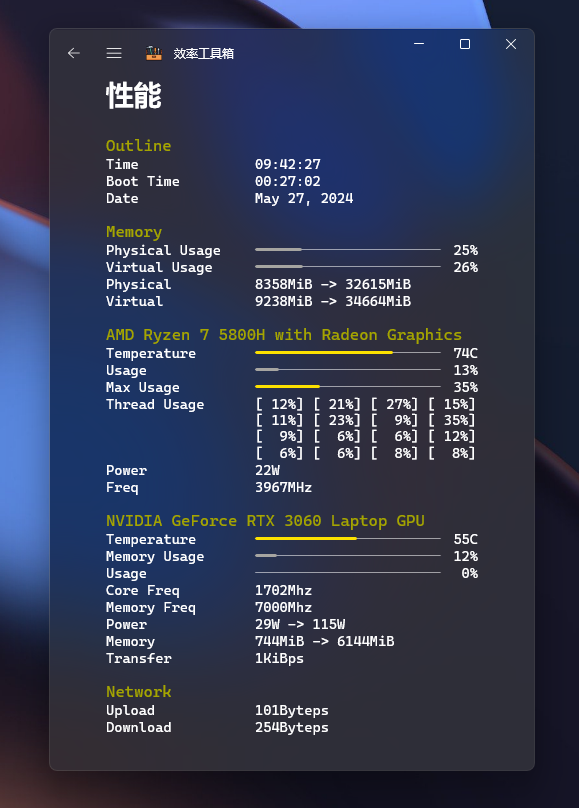
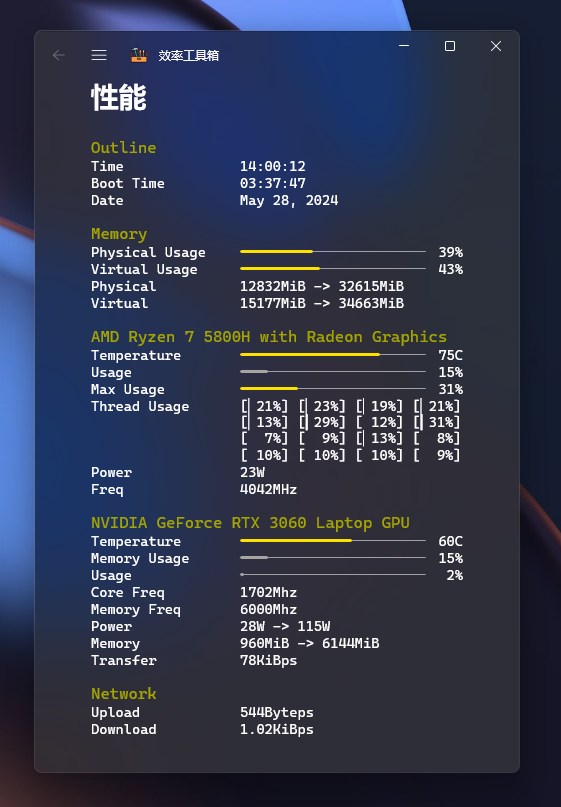
modified:   performance-monitor-winui3/Tools/Utils.cs 	modified:   performance-monitor-winui3/Views/MonitorPage.xaml.cs 	modified:   picture/monitor_page_0.png 	modified:   picture/monitor_page_1.png 	modified:   readme.md

diff --git a/performance-monitor-winui3/Tools/Utils.cs b/performance-monitor-winui3/Tools/Utils.cs
@@ -238,93 +238,12 @@ static class Utils
         }
     }
 
-    //public static Grid AddCPUThreadUsageGrid2Grid(Grid grid, string keyStr, CpuInformation cpu, int row, int ringRowNumber = 4, int keySize = 4, int valueSize = 6, int fontSize = 14, double height = 1.2)
-    //{
-
-    //    Grid subGrid = new Grid();
-    //    // column
-    //    var keyColumnDefinition = new ColumnDefinition();
-    //    keyColumnDefinition.Width = new GridLength(keySize, GridUnitType.Star);
-    //    var valueColumnDefinition = new ColumnDefinition();
-    //    valueColumnDefinition.Width = new GridLength(valueSize, GridUnitType.Star);
-    //    subGrid.ColumnDefinitions.Add(keyColumnDefinition);
-    //    subGrid.ColumnDefinitions.Add(valueColumnDefinition);
-    //    // row
-    //    var pairRowDefinition = new RowDefinition();
-    //    pairRowDefinition.Height = new GridLength(height, GridUnitType.Auto);
-    //    subGrid.RowDefinitions.Add(pairRowDefinition);
-
-    //    // define key TextBlock
-    //    var key = new TextBlock();
-    //    key.Text = keyStr;
-    //    key.VerticalAlignment = VerticalAlignment.Top;
-    //    key.FontSize = fontSize;
-    //    key.FontFamily = new FontFamily("Cascadia Mono");
-    //    Grid.SetColumn(key, 0);
-    //    Grid.SetRow(key, 0);
-
-    //    // define rings
-    //    var needRow = (cpu.ThreadCount + ringRowNumber - 1) / ringRowNumber;
-    //    Grid ringGrid = new Grid();
-    //    // row
-    //    for (var i = 0; i < needRow; i++)
-    //    {
-    //        var rowDefinition = new RowDefinition();
-    //        rowDefinition.Height = new GridLength(height, GridUnitType.Auto);
-    //        ringGrid.RowDefinitions.Add(rowDefinition);
-    //    }
-    //    // column
-    //    for (var i = 0; i < ringRowNumber; i++)
-    //    {
-    //        var columnDefinition = new ColumnDefinition();
-    //        columnDefinition.Width = new GridLength(1, GridUnitType.Star);
-    //        ringGrid.ColumnDefinitions.Add(columnDefinition);
-    //    }
-
-    //    for (var i = 0; i < cpu.ThreadCount; i++) 
-    //    {
-    //        int addRow = i / ringRowNumber, addColumn = i % ringRowNumber;
-    //        //ProgressBar progressBar = new ProgressBar();
-
-    //        //var val = cpu.Usage[i];
-    //        //val = val < 0 ? 0 : val;
-    //        //val = val > 100 ? 100 : val;
-
-    //        ////progressBar.Value = val;
-    //        ////if (val < 30) { }
-    //        ////else if (val <= 80)
-    //        ////{
-    //        ////    progressBar.ShowPaused = true;
-    //        ////}
-    //        ////else
-    //        ////{
-    //        ////    progressBar.ShowError = true;
-    //        ////}
-    //        ////progressBar.Margin = new Thickness(0, 5, 0, 5);
-
-    //        //Grid.SetRow(progressBar, addRow);
-    //        //Grid.SetColumn(progressBar, addColumn);
-    //        //ringGrid.Children.Add(progressBar);
-    //    }
-
-
-    //    Grid.SetColumn(ringGrid, 1);
-    //    Grid.SetRow(ringGrid, 0);
-
-    //    // push into subGrid
-    //    subGrid.Children.Add(key);
-    //    subGrid.Children.Add(ringGrid);
-
-    //    // grid row
-    //    var subGridRowDefinition = new RowDefinition();
-    //    subGridRowDefinition.Height = new GridLength(height, GridUnitType.Auto);
-    //    grid.RowDefinitions.Add(subGridRowDefinition);
-
-    //    // push into grid
-    //    Grid.SetRow(subGrid, row);
-    //    Grid.SetColumn(subGrid, 0);
-    //    grid.Children.Add(subGrid);
-
-    //    return subGrid;
-    //}
+    public static readonly char[] ProgressChars = [' ', '▏', '▎', '▎', '▌', '▋', '▊', '▉', '█'];
+    public static string GetProgressString(int value)
+    {
+        value = Math.Max(Math.Min(value, 100), 0);
+        var idx = value * (ProgressChars.Length - 1) / 100;
+        value = Math.Min(99, value);
+        return $"[{ProgressChars[idx]}{value,2}%]";
+    }
 }

diff --git a/performance-monitor-winui3/Views/MonitorPage.xaml.cs b/performance-monitor-winui3/Views/MonitorPage.xaml.cs
@@ -77,7 +77,7 @@ public sealed partial class MonitorPage : Page
                     var eachUsage = "";
                     for (int i = 0; i < cpu.ThreadCount; i++)
                     {
-                        eachUsage += $"[{cpu.Usage[i],3}%]";
+                        eachUsage += Utils.GetProgressString(cpu.Usage[i]);
                         if (i + 1 != cpu.ThreadCount && i % 4 == 3)
                         {
                             eachUsage += '\n';

diff --git a/readme.md b/readme.md
@@ -1,6 +1,6 @@
 # 效率工具箱文档
 
-效率工具箱是由`LoHhhha`开发的一款基于`Windows SDK 1.5`开发的软件。旨在实现一些极客功能如：计算机性能监测、网络IP地址查看、TODO列表、日程表等功能，同时集成`Dell G15`系列`AWCC-WMI`相关接口，实现风扇转速调整、性能模式切换的功能。
+效率工具箱是由`LoHhhha`开发的一款基于`Windows SDK 1.5`(`WinUI3`)开发的软件。旨在实现一些极客功能如：计算机性能监测、网络IP地址查看、TODO列表、日程表等功能，同时集成`Dell G15`系列`AWCC-WMI`相关接口，实现风扇转速调整、性能模式切换的功能。
 
 注：文档给出的前端设置均为简化版，未指定任何参数，仅做参考，具体请参见对应源代码。
 
@@ -672,7 +672,7 @@
 * 重要方法
   * `string Get(string key)`    返回`key`对应的文本值。
 
-#### `Utils`类
+### `Utils`类
 
 这个类用于管理一些本项目中频繁用到的方法，采用静态类封装。
 
@@ -684,10 +684,12 @@
   * `Tuple<TextBlock, TextBlock> AddPairWithProgressBarGrid2Grid(Grid grid, string keyStr, int val, int row, string? showValue = null, int keySize = 4, int progressBarSize = 5, int valueSize = 1, int fontSize = 14, double height = 1.2)`   将一个装有以`TextBlock`表示的`key`/`value`的键值对的`Grid`放入给定的`grid`的对应行处，并带有进度条，这个函数会自动为`grid`添加对应的行说明、列说明，并返回这两个`TextBlock`对象。
   * `ProgressRing AddLoadingProgressBar2Grid(Grid grid, int row)`   将一个加载进度条放在`grid`的对应行处，并返回该进度条。
   * `void SetProgressBar(ProgressBar progressBar, int value)`   设置根据`value`设置`progressBar`的样式。
+  * `string GetProgressString(int value)`   返回一个字符表示的进度条，eg:"[▉87%]"
 * 重要属性
   * `enum Unit` 单位的枚举类型。
   * `int baseNumber`    单位基数，默认为1024。
   * `string[] postfix`  单位的表示。
+  * `char[] ProgressChars`  进度条的字符表示。
 
 # 开发计划
 
